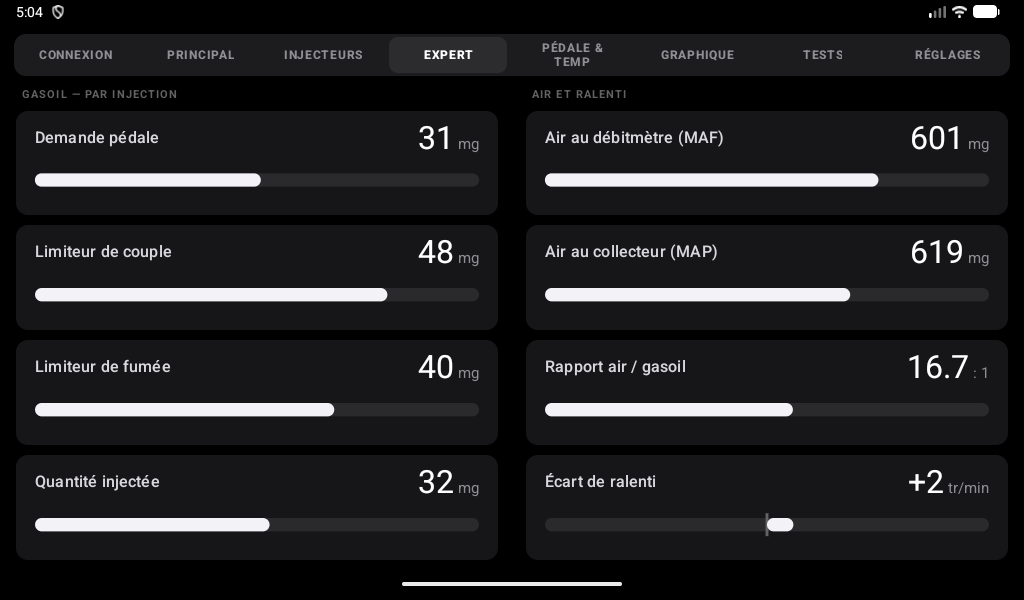
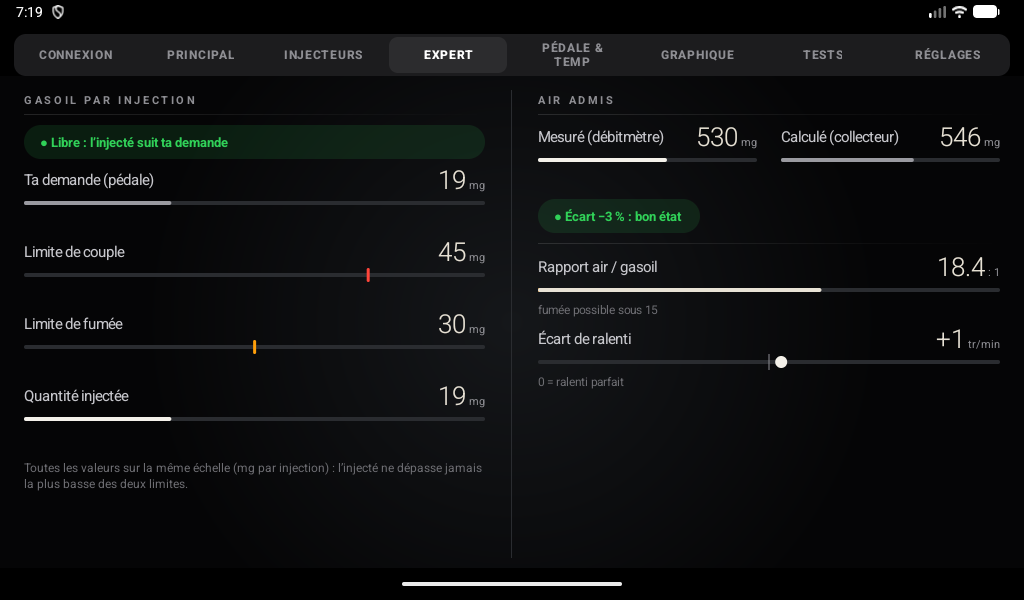
docs: README and screenshots for 1.6

diff --git a/README.md b/README.md
@@ -12,22 +12,20 @@ s'ouvre directement sur les jauges.
 
 ## Le principe : le silence veut dire que tout va bien
 
-Les jauges restent **blanches** tant qu'une valeur est dans sa plage normale. La couleur
-n'apparaît **que** lorsqu'une valeur en sort. Un écran blanc veut dire que tout est
-correct ; s'il y a une seule tuile colorée, c'est là qu'il faut regarder.
+Le style reprend celui des écrans conducteur récents : blanc chaud sur fond presque noir,
+traits fins, zones orange et rouge discrètes sur les cadrans. Les valeurs restent
+**blanches** tant qu'elles sont dans leur plage normale ; la couleur n'apparaît **que**
+lorsqu'une valeur en sort. Un écran blanc veut dire que tout est correct.
 
 | État | Couleur | Exemple |
 |---|---|---|
 | Normal | blanc | liquide à 86 °C |
 | Encore froid | bleu | liquide sous 70 °C |
 | Attention | orange | liquide au-dessus de 96 °C |
-| Alerte | rouge, **carte teintée** | liquide au-dessus de 105 °C |
+| Alerte | rouge | liquide au-dessus de 105 °C |
 
-![Alerte](screenshots/08-alerte.png)
-
-La carte entière se teinte en alerte, pour qu'un défaut se voie du coin de l'œil. C'est
-indispensable pour les valeurs basses, comme une batterie à 10,9 V, dont l'arc est trop
-court pour attirer le regard à lui seul.
+Les mêmes couleurs gardent le même sens partout : vert pour le bon, orange à surveiller,
+rouge pour agir, bleu pour une donnée neutre dans les graphiques.
 
 ---
 
@@ -35,12 +33,20 @@ court pour attirer le regard à lui seul.
 
 ### Principal
 
-Un combiné d'instruments : deux grands cadrans, **régime** (avec la vitesse dessous) et
-**turbo**, les zones orange et rouge tracées en sombre sur le cadran. Au centre, la
-**consommation instantanée** (L/100 km en roulant, L/h à l'arrêt) avec la moyenne et les
-kilomètres. En bas, **batterie**, **T° moteur** et **débitmètre** en barres. Un bandeau
-apparaît tant que le moteur n'est pas chaud.
+Deux grands cadrans à aiguille, **régime** (avec la vitesse dessous) et **turbo**, leurs
+zones orange et rouge dans le cercle. Au centre, la **consommation instantanée** sur un
+demi-cadran fin (L/100 km en roulant, L/h à l'arrêt) avec un repère sur la moyenne, la
+moyenne et les kilomètres, puis le **rapport engagé**. En bas, **batterie**,
+**température moteur** et **débitmètre** en barres fines.
 
+![Bridé par la fumée](screenshots/08-bride.png)
+
+- **Témoin « BRIDÉ »** : en haut au centre, il s'allume quand le calculateur retient le
+  gasoil, par la limite de fumée (le turbo n'a pas encore soufflé) ou par la limite de
+  couple. Le reste du temps, la place sert au bandeau de montée en température.
+- **Rapport engagé** : le calculateur n'a pas de capteur de boîte ; l'application
+  l'apprend toute seule à partir du régime et de la vitesse (boîte R380, gamme courte
+  affichée 1L, 2L…). Il apparaît après quelques minutes de route.
 - **Trajet / Total** : les petites lignes sous chaque valeur (max, moyennes, kilomètres)
   montrent le trajet en cours ou, en violet, le total conservé jusqu'à sa remise à zéro
   (appui long sur « Total »).
@@ -48,43 +54,72 @@ apparaît tant que le moteur n'est pas chaud.
   plein, complet ou partiel ; les litres affichés par la pompe servent à **caler
   automatiquement la consommation** d'un plein complet à l'autre, et à signaler les
   trajets faits sans la tablette.
+
+![Autonomie](screenshots/12-autonomie.png)
+
 - **État du débitmètre** : sous sa barre, l'écart entre le débitmètre et l'estimation du
   calculateur par le capteur de collecteur, mesuré moteur chaud, en charge et en régime
-  stable (EGR fermée). Vert, orange ou rouge, avec l'historique des 10 derniers trajets.
+  stable (EGR fermée). Vert, orange ou rouge, avec l'historique des derniers trajets.
 
 ### Injecteurs
 
 ![Injecteurs](screenshots/02-injecteurs.png)
 
-Balance des cinq injecteurs en colonnes autour de zéro, sur une bande verte de −4 à +4 :
-l'injecteur qui s'écarte saute aux yeux. L'application connaît le
-régime et la température : elle annonce **MOTEUR FROID** ou **PAS AU RALENTI** quand les
-conditions de mesure ne sont pas réunies, plutôt que de laisser lire des valeurs qui ne
-veulent rien dire.
+Balance des cinq injecteurs sur des réglettes graduées autour de zéro, avec une bande
+verte de −4 à +4 : l'injecteur qui s'écarte saute aux yeux, et le plus écarté est
+rappelé à droite. L'application connaît le régime et la température : elle annonce
+**moteur froid** ou **pas au ralenti** quand les conditions de mesure ne sont pas
+réunies, plutôt que de laisser lire des valeurs qui ne veulent rien dire.
 
 ### Expert
 
 ![Expert](screenshots/03-expert.png)
 
-Les huit valeurs de cartographie, en tuiles : le gasoil (demande, limiteurs de couple et
-de fumée, quantité injectée) sur la même échelle, l'air et le ralenti à côté. Aucune n'a
-de seuil d'alerte : la documentation d'origine est explicite, il n'y a pas de bonne ou de
-mauvaise valeur.
+À gauche, le gasoil par injection **sur une même échelle** : ta demande à la pédale, les
+limites de couple et de fumée (des repères), la quantité injectée. Un verdict dit en
+clair si le moteur est libre ou bridé, et par quoi. À droite, l'air mesuré au débitmètre
+et calculé au collecteur avec l'état du débitmètre, puis le rapport air / gasoil et
+l'écart de ralenti.
 
 ### Pédale et températures
 
 ![Pédale et températures](screenshots/04-pedale-temp.png)
 
-Les trois voies de pédale, l'enfoncement en pourcentage, la pression ambiante et les
-températures gasoil, admission et extérieure.
+L'enfoncement de la pédale et ses trois voies, avec un verdict : les trois voies doivent
+concorder, une voie qui dérive annonce une pédale qui va passer en mode dégradé. À
+droite, les températures gasoil, admission et extérieure (normale, chaude, trop chaude)
+et la pression ambiante avec l'altitude estimée.
+
+### Graphique
+
+![Graphique en direct](screenshots/10-graphique.png)
+
+**En direct** : un signal tracé sur 30 s, 2 min ou 5 min, avec son minimum, son maximum
+et sa moyenne, et un **second signal en bande dessous** pour l'expliquer (la vitesse
+sous la consommation, le régime sous le turbo…, au choix). La consommation instantanée
+est colorée : verte sous ta moyenne, orange au-dessus, rouge quand elle est forte.
+
+![Bilans](screenshots/11-bilans.png)
+
+**Bilans**, pour le trajet ou le total, chacun avec sa conclusion dans la liste :
+
+- **Conso par vitesse** : L/100 km par tranche de vitesse, la plus sobre en vert ;
+- **Conso par rapport** : L/100 km selon le rapport engagé ;
+- **Turbo par régime** : pression moyenne et maxi à pleine charge par tranche de régime,
+  comparée à une référence apprise sur les premiers relevés. Une baisse durable trahit
+  une fuite d'air ou une wastegate fatiguée ;
+- **Limiteurs** : le gasoil face aux limites de fumée et de couple, et le temps passé
+  bridé sur le trajet ;
+- **Santé par trajet** : un point par trajet pour le débitmètre, les injecteurs, le turbo
+  à 2500 tr/min et la batterie au démarrage, pour voir une usure lente.
 
 ### Tests d'actionneurs
 
 ![Tests](screenshots/05-tests.png)
 
-Quatorze commandes envoyées au calculateur : pompe à gasoil, préchauffage, voyant moteur,
-jauge de température, impulsion de régime, embrayage et ventilateur de clim, modulateurs
-EGR et turbo, et chaque injecteur isolément.
+Quatorze commandes envoyées au calculateur, rangées par famille : moteur (pompe à
+gasoil, préchauffage, impulsion de régime, modulateurs EGR et turbo), tableau de bord et
+clim, et chaque injecteur isolément.
 
 Les boutons sont **désactivés tant que le calculateur n'est pas connecté**, et chaque test
 demande une confirmation avec un avertissement adapté.
@@ -93,19 +128,21 @@ demande une confirmation avec un avertissement adapté.
 
 ![Connexion](screenshots/00-connexion.png)
 
-Identité du véhicule lue au calculateur — VIN, type d'ECU, variante de cartographie —,
-codes défaut décodés en clair, et le journal brut. L'effacement des défauts demande
-confirmation et prévient que c'est irréversible.
+Le bouton de connexion dans un anneau d'état : **blanc** une fois connecté, **rouge**
+sans signal. À droite, l'identité du véhicule lue au calculateur (VIN, type d'ECU,
+variante de cartographie), les codes défaut et le journal. L'effacement des défauts
+demande confirmation et prévient que c'est irréversible.
 
 ### Réglages
 
 ![Réglages](screenshots/06-reglages.png)
 
-Le **modèle** (Discovery 2, Defender 90, 110 ou 130), qui fixe la capacité utile du
-réservoir, puis les seuils et corrections : couleurs des jauges, **correction de vitesse**
-pour des pneus non d'origine (vitesse compteur et vitesse GPS au même moment, par exemple
-120 et 130), correction de consommation. Les valeurs d'usine des seuils viennent des
-notes publiées par l'auteur de l'application d'origine. Un bouton remet tout en place.
+Rangés par blocs : le **modèle** (Discovery 2, Defender 90, 110 ou 130), qui fixe la
+capacité utile du réservoir, puis les seuils et corrections : couleurs des jauges,
+**correction de vitesse** pour des pneus non d'origine (vitesse compteur et vitesse GPS
+au même moment, par exemple 120 et 130), correction de consommation. Les valeurs d'usine
+des seuils viennent des notes publiées par l'auteur de l'application d'origine. Un
+bouton remet tout en place.
 
 ---
 
@@ -123,7 +160,8 @@ plages attendues, et le pic de la session avec un bouton de remise à zéro.
 ![Demi-écran](screenshots/09-demi-ecran.png)
 
 L'application accepte le mode fenêtré et bascule sur une mise en page compacte sous 700
-points de large, pour tenir à côté d'un GPS.
+points de large, pour tenir à côté d'un GPS. Les pop-ups et l'onglet Graphique s'y
+adaptent aussi.
 
 ---
 
@@ -148,8 +186,11 @@ L'application s'installe **à côté** de TD5 InfoDash, avec son propre identifi
 
 ### Mode démo
 
-Un **appui long sur le bouton de connexion** simule les 26 valeurs à partir d'un cycle
-moteur cohérent : quand le régime monte, le turbo, le débit et les températures suivent.
+Un **appui long sur le bouton de connexion** simule les valeurs à partir d'un cycle
+moteur cohérent : la vitesse passe les rapports de la boîte, le régime suit, le turbo
+arrive avec un temps de retard (le moteur est alors brièvement bridé par la fumée), le
+débit et les températures suivent. Les données de la démo sont tenues à part de celles
+du véhicule.
 Utile pour montrer l'application ou travailler l'interface sans véhicule. Le mode est un
 drapeau d'exécution, désactivé par défaut, jamais compilé dans l'application.
 
@@ -175,7 +216,8 @@ version 3 de l'application d'origine, appuyé sur les libellés du projet
 limite de fumée est bien la plus basse des deux au ralenti chaud. **Confiance estimée à
 80 %**, faute de documentation constructeur.
 
-Toutes les conversions sont isolées dans une classe pure et couvertes par **41 tests
+Les conversions et les calculs (consommation, réservoir, débitmètre, rapport engagé,
+limiteurs, bilans) sont isolés dans des classes pures et couverts par **115 tests
 unitaires**.
 
 ---
@@ -218,3 +260,6 @@ Licence Apache 2.0, voir [LICENSE](LICENSE) et [NOTICE](NOTICE).
 - Le **calage automatique de la consommation** au plein et le **verdict du débitmètre**
   (seuils ±8 % et ±15 %) sont vérifiés par des tests et dans l'émulateur, pas encore
   sur plusieurs pleins réels. Les seuils du débitmètre sont réglables.
+- Le **rapport engagé** suppose une boîte manuelle R380 ; les boîtes automatiques ne
+  sont pas reconnues. Le **témoin « BRIDÉ »** et les **bilans** (1.6) sont vérifiés dans
+  l'émulateur et par des tests, pas encore sur route.
